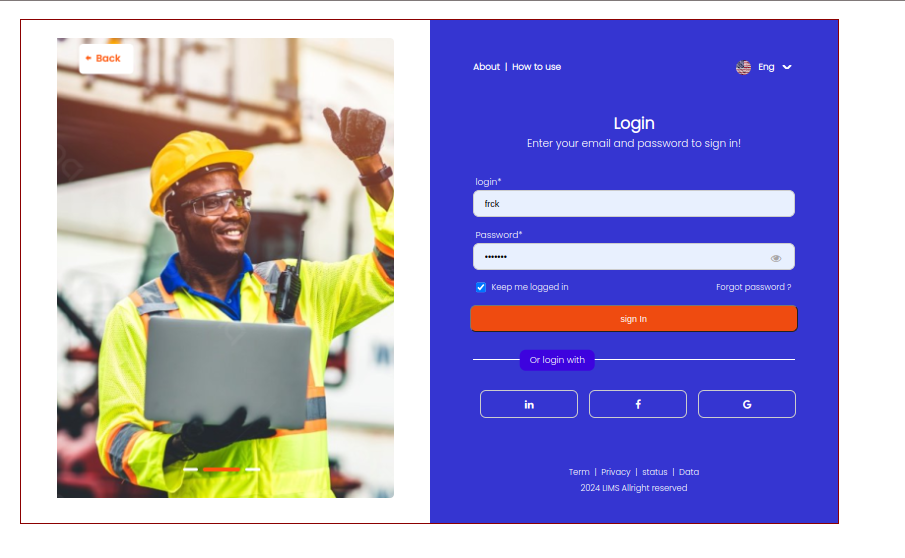
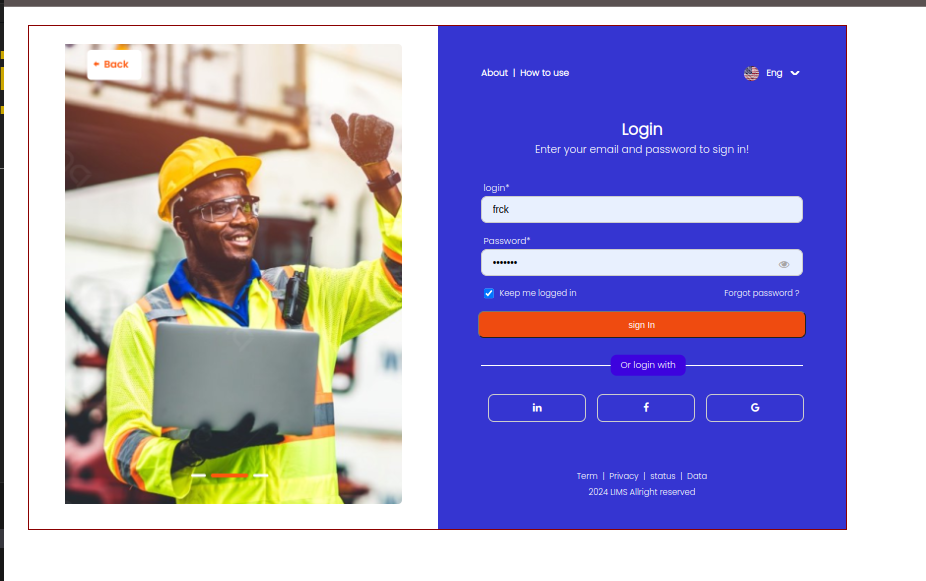
done for the updates with or logging with

diff --git a/src/components/LoginForm.css b/src/components/LoginForm.css
@@ -167,12 +167,15 @@
       }
     
       .on-the-line {
+        /* transform: translate(200%, -80%); */
         /* display:  flex;
         justify-content: center;
         align-items: center; */
         /* color: #fff; */
         background-color: #3d03de;
-        transform: translate(200%, -80%);
+        position: absolute;
+        bottom: 41.5vh;
+        right: 41.5vw;
         width: max-content;
         padding: 5px 10px;
         border-radius: 8px;
@@ -187,6 +190,7 @@
         align-items: center;
         gap: 0.2rem;
         margin: 0 auto;
+        margin-top: 1.5rem;
     }
     
     .buton {

diff --git a/src/components/LoginCard.jsx b/src/components/LoginCard.jsx
@@ -15,9 +15,9 @@ function LoginCard() {
      
     <div className="card">
         {/* <Wrapper>  */}
-        <LeftCard1 value={nextLeftCard}/>
+        {/* <LeftCard1 value={nextLeftCard}/> */}
         {/* <LeftCard2 value={nextLeftCard}/> */}
-        {/* <LeftCard3 value={nextLeftCard}/> */}
+        <LeftCard3 value={nextLeftCard}/>
         {/* <SLider/> */}
 
         {/* </Wrapper> */}
